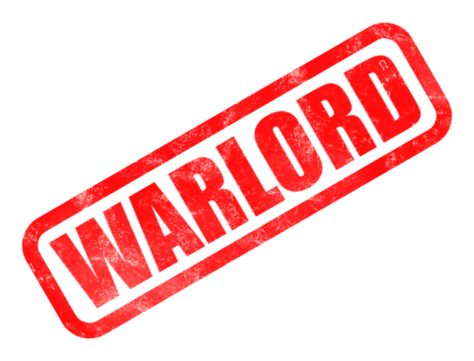
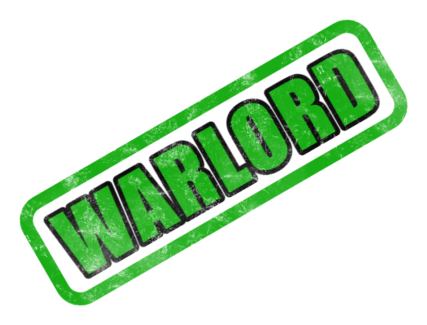
feat: Changed Warlord stamp to Green

Changed region(s): [[0.0304, 0.0615, 0.9742, 0.9538]]

diff --git a/src/wantedposter/wantedposter.py b/src/wantedposter/wantedposter.py
@@ -52,7 +52,7 @@ BOUNTY_POSTER_COMPONENT_BELLY = 2
 BOUNTY_POSTER_CAPTURE_CONDITION_START_X = 0
 BOUNTY_POSTER_CAPTURE_CONDITION_START_Y = 724
 BOUNTY_POSTER_STAMP_START_X = 0
-BOUNTY_POSTER_STAMP_START_Y = 120
+BOUNTY_POSTER_STAMP_START_Y = 100
 
 
 class HorizontalAlignment(Enum):
